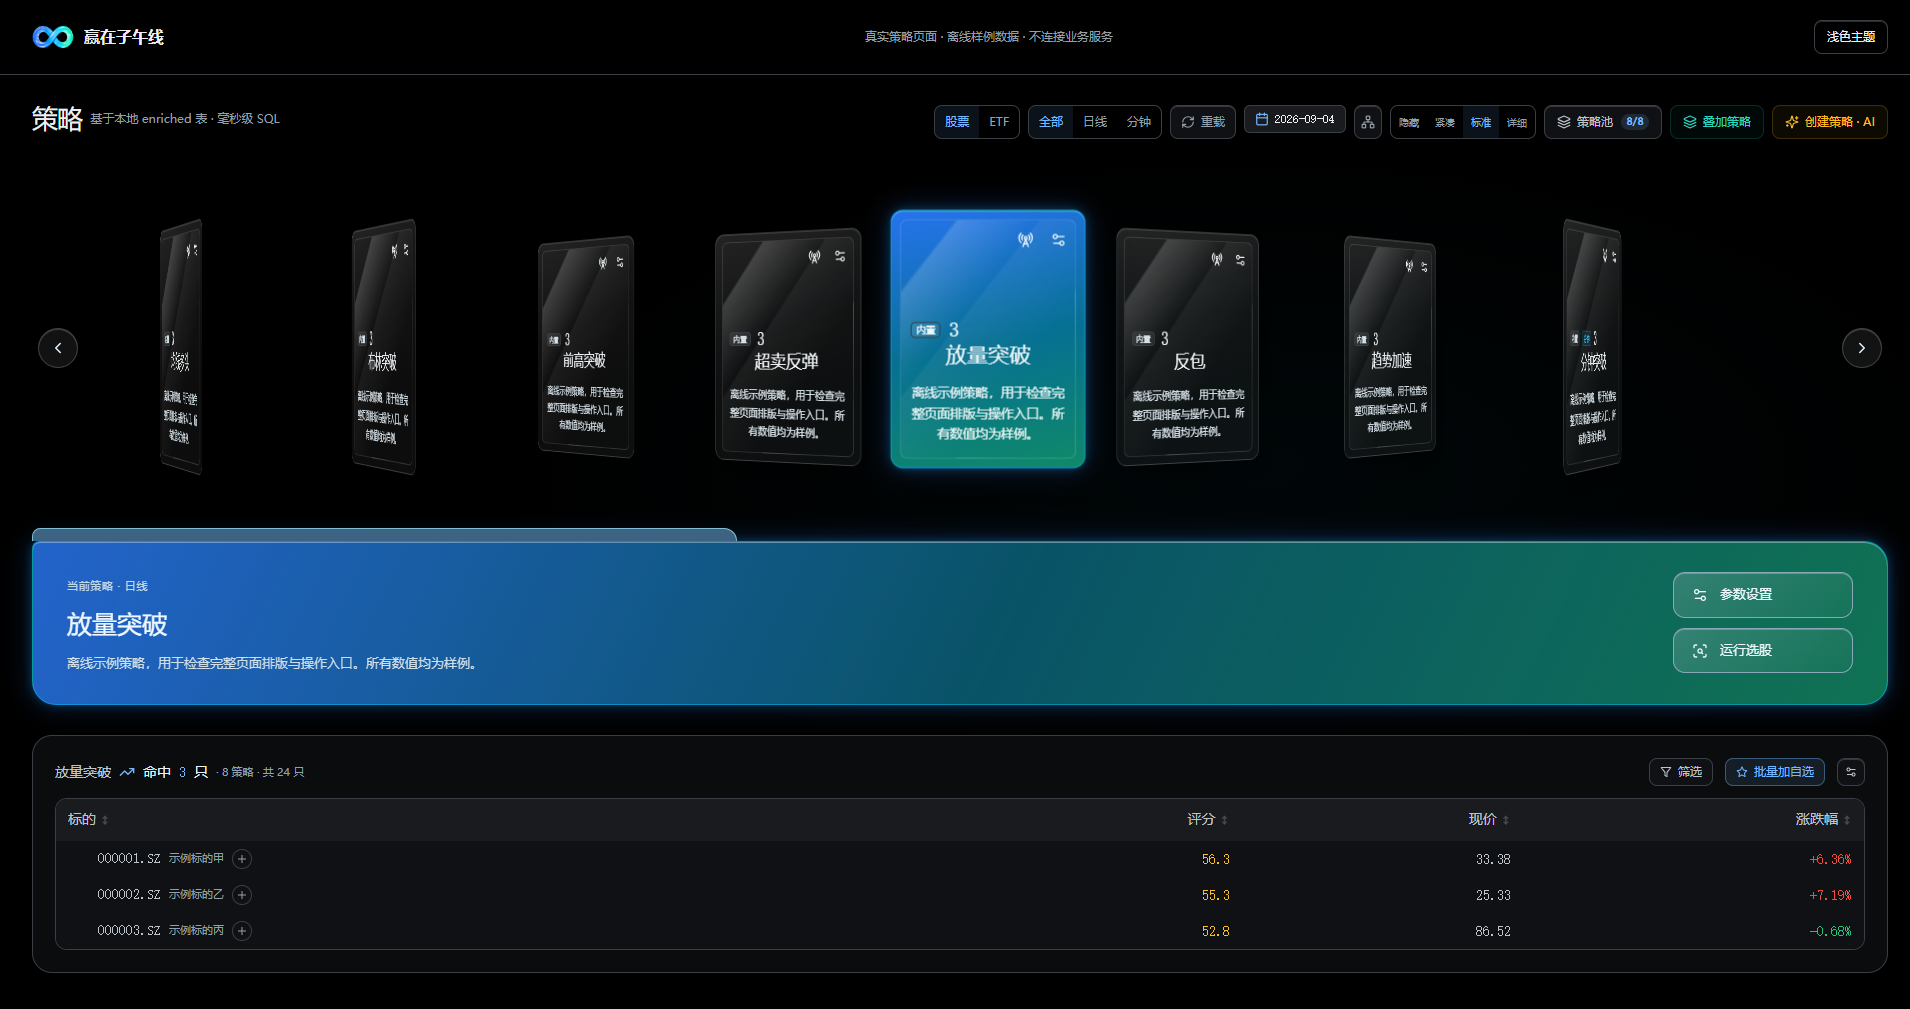
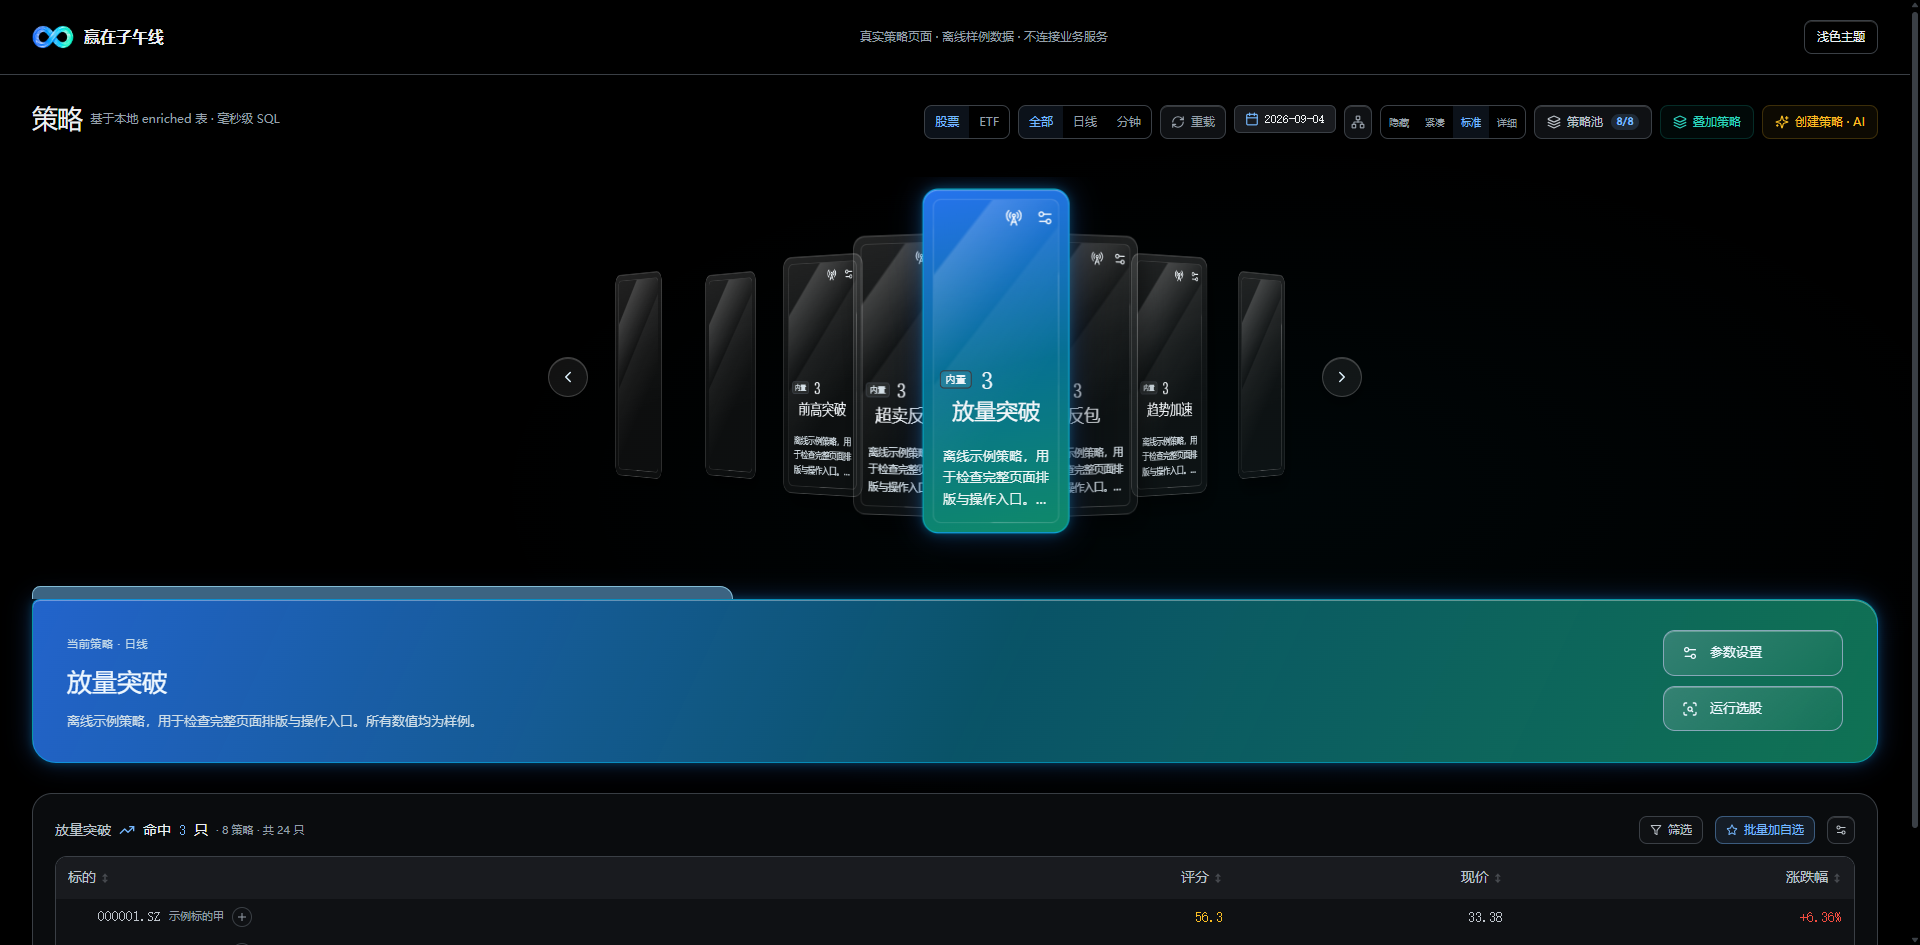
style: 扇形卡组按目标图校准（细长竖卡/负边距重叠/箭头贴组/远端隐字/集群居中）

diff --git a/frontend/src/styles/strategy-studio.css b/frontend/src/styles/strategy-studio.css
@@ -18,23 +18,34 @@
 .sn-screener-tools > button, .sn-screener-tools > div { min-height: 34px; }
 .sn-screener-body { padding-bottom: 36px; }
 .sn-strategy-stage { position: relative; }
+/* 卡组集群容器：宽度收缩到卡片实际宽度并居中，箭头紧贴两侧；仅扇形密度生效，紧凑模式保持原布局 */
+.sn-fan-cluster:not([data-density='mini']) {
+  position: relative;
+  width: -moz-fit-content;
+  width: fit-content;
+  max-width: 100%;
+  margin: 0 auto;
+}
 .sn-strategy-gallery:not([data-density='mini']) {
   display: flex;
   flex-wrap: nowrap;
-  gap: 18px;
+  justify-content: safe center;   /* 溢出时可滚到最左，不裁切 */
+  gap: 0;
   overflow-x: auto;
-  padding: 48px 56px 50px;
+  padding: 48px 72px 52px;
   scroll-snap-type: x proximity;
   scrollbar-gutter: stable;
   align-items: center;
-  perspective: 1200px;
+  perspective: 1400px;
 }
 .sn-strategy-gallery:not([data-density='mini']) .sn-strategy-card {
-  flex: 0 0 184px;
+  /* 细长竖卡（宽高比 ≈ 1:2.34，对齐目标图）+ 负 margin 重叠扇面 */
+  flex: 0 0 128px;
   min-width: 0;
-  height: 244px;
-  padding: 46px 18px 22px;
-  border-radius: 12px;
+  height: 300px;
+  margin: 0 -28px;
+  padding: 42px 14px 20px;
+  border-radius: 14px;
   display: flex;
   align-items: stretch;
   scroll-snap-align: center;
@@ -56,19 +67,28 @@
   border: 1px solid rgb(255 255 255 / .12);
   pointer-events: none;
 }
-/* Coverflow tiers: tier 由 Screener 按与选中策略的距离计算，data-fan 仅为视觉属性 */
-.sn-strategy-gallery:not([data-density='mini']) .sn-strategy-card[data-fan='near-left'] { rotate: y -26deg; scale: .95; opacity: .92; z-index: 10; }
-.sn-strategy-gallery:not([data-density='mini']) .sn-strategy-card[data-fan='near-right'] { rotate: y 26deg; scale: .95; opacity: .92; z-index: 10; }
-.sn-strategy-gallery:not([data-density='mini']) .sn-strategy-card[data-fan='mid-left'] { rotate: y -38deg; scale: .88; opacity: .78; z-index: 5; }
-.sn-strategy-gallery:not([data-density='mini']) .sn-strategy-card[data-fan='mid-right'] { rotate: y 38deg; scale: .88; opacity: .78; z-index: 5; }
-.sn-strategy-gallery:not([data-density='mini']) .sn-strategy-card[data-fan='far-left'] { rotate: y -46deg; }
-.sn-strategy-gallery:not([data-density='mini']) .sn-strategy-card[data-fan='far-right'] { rotate: y 46deg; }
+/* Coverflow tiers: tier 由 Screener 按与选中策略的距离计算，data-fan 仅为视觉属性。
+   梯度对齐目标图：near ±20° / mid ±34° / far ±46°，远端 scale 递减到 .68，递减节奏均匀 */
+.sn-strategy-gallery:not([data-density='mini']) .sn-strategy-card[data-fan='near-left'] { rotate: y -20deg; scale: .94; opacity: .94; z-index: 10; margin-right: -20px; }
+.sn-strategy-gallery:not([data-density='mini']) .sn-strategy-card[data-fan='near-right'] { rotate: y 20deg; scale: .94; opacity: .94; z-index: 10; margin-left: -20px; }
+.sn-strategy-gallery:not([data-density='mini']) .sn-strategy-card[data-fan='mid-left'] { rotate: y -34deg; scale: .80; opacity: .78; z-index: 5; margin-right: -14px; }
+.sn-strategy-gallery:not([data-density='mini']) .sn-strategy-card[data-fan='mid-right'] { rotate: y 34deg; scale: .80; opacity: .78; z-index: 5; margin-left: -14px; }
+.sn-strategy-gallery:not([data-density='mini']) .sn-strategy-card[data-fan='far-left'] { rotate: y -46deg; scale: .68; opacity: .60; margin-right: -8px; }
+.sn-strategy-gallery:not([data-density='mini']) .sn-strategy-card[data-fan='far-right'] { rotate: y 46deg; scale: .68; opacity: .60; margin-left: -8px; }
+/* 远端卡去文字保干净：只留卡面质感，消除重叠区文字透叠 */
+.sn-strategy-gallery:not([data-density='mini']) .sn-strategy-card[data-fan^='far-'] { color: transparent; }
+.sn-strategy-gallery:not([data-density='mini']) .sn-strategy-card[data-fan^='far-'] * { visibility: hidden; }
+.sn-strategy-gallery:not([data-density='mini']) .sn-strategy-card[data-fan^='far-']:hover,
+.sn-strategy-gallery:not([data-density='mini']) .sn-strategy-card[data-fan^='far-']:focus-within { color: inherit; }
+.sn-strategy-gallery:not([data-density='mini']) .sn-strategy-card[data-fan^='far-']:hover *,
+.sn-strategy-gallery:not([data-density='mini']) .sn-strategy-card[data-fan^='far-']:focus-within * { visibility: visible; }
 .sn-strategy-gallery:not([data-density='mini']) .sn-strategy-card[data-fan='center'] {
   rotate: y 0deg;
-  scale: 1.06;
-  translate: 0 -12px;
+  scale: 1.15;
+  translate: 0 -14px;
   opacity: 1;
   z-index: 20;
+  margin: 0 -20px;
   background-color: #0d1b2e;
   background-image: linear-gradient(168deg, rgb(40 123 255 / .92), rgb(0 191 239 / .52) 52%, rgb(16 185 129 / .70));
   border-color: rgb(0 191 239 / .60);
@@ -77,6 +97,8 @@
 .sn-strategy-gallery:not([data-density='mini']) .sn-strategy-card[data-fan='center'] .text-muted { color: rgb(255 255 255 / .92); }
 .sn-strategy-gallery:not([data-density='mini']) .sn-strategy-card:hover,
 .sn-strategy-gallery:not([data-density='mini']) .sn-strategy-card:focus-within { rotate: y 0deg; translate: 0 -8px; border-color: rgb(0 191 239 / .45); }
+/* 文字跟随卡片透视：3D 变换应用于卡体，内部继承同一变换上下文 */
+.sn-strategy-gallery:not([data-density='mini']) .sn-strategy-card > button:first-child { transform-style: preserve-3d; }
 .sn-strategy-gallery:not([data-density='mini']) .sn-strategy-card > button:first-child {
   position: relative;
   display: flex;
@@ -89,16 +111,16 @@
   color: #f2f6f9;
 }
 .sn-strategy-gallery:not([data-density='mini']) .sn-strategy-card > button:first-child > div:first-child { flex-wrap: wrap; gap: 8px; }
-.sn-strategy-gallery:not([data-density='mini']) .sn-strategy-card .text-foreground { color: #f2f6f9; font-size: 17px; white-space: normal; }
+.sn-strategy-gallery:not([data-density='mini']) .sn-strategy-card .text-foreground { color: #f2f6f9; font-size: 16px; white-space: normal; }
 .sn-strategy-gallery:not([data-density='mini']) .sn-strategy-card .text-muted { color: #d5e0e7; }
-.sn-strategy-gallery:not([data-density='mini']) .sn-strategy-card .font-mono { font-size: 20px; font-weight: 500; }
-.sn-strategy-gallery:not([data-density='mini']) .sn-strategy-card .line-clamp-1 { -webkit-line-clamp: 3; max-width: none; font-size: 12px; line-height: 1.6; }
-.sn-strategy-gallery:not([data-density='mini']) .sn-strategy-card .truncate { overflow: visible; flex: 1 0 100%; order: 2; font-weight: 500; font-size: 20px; }
-.sn-strategy-gallery:not([data-density='mini']) .sn-strategy-card > button:not(:first-child) { top: 15px; padding: 5px; }
-.sn-strategy-gallery:not([data-density='mini']) .sn-strategy-card > button[title='策略设置'] { right: 12px; }
-.sn-strategy-gallery:not([data-density='mini']) .sn-strategy-card > button[title$='策略监控'] { right: 43px; }
+.sn-strategy-gallery:not([data-density='mini']) .sn-strategy-card .font-mono { font-size: 22px; font-weight: 500; }
+.sn-strategy-gallery:not([data-density='mini']) .sn-strategy-card .line-clamp-1 { -webkit-line-clamp: 3; max-width: none; font-size: 11.5px; line-height: 1.6; }
+.sn-strategy-gallery:not([data-density='mini']) .sn-strategy-card .truncate { overflow: visible; flex: 1 0 100%; order: 2; font-weight: 500; font-size: 19px; line-height: 1.25; }
+.sn-strategy-gallery:not([data-density='mini']) .sn-strategy-card > button:not(:first-child) { top: 13px; padding: 4px; }
+.sn-strategy-gallery:not([data-density='mini']) .sn-strategy-card > button[title='策略设置'] { right: 9px; }
+.sn-strategy-gallery:not([data-density='mini']) .sn-strategy-card > button[title$='策略监控'] { right: 36px; }
 .sn-strategy-gallery:not([data-density='mini']) .sn-strategy-card > button:not(:first-child) svg { width: 15px; height: 15px; color: #f1f7fb; }
-.sn-strategy-gallery[data-density='large'] .sn-strategy-card { flex-basis: 224px; height: 284px; }
+.sn-strategy-gallery[data-density='large'] .sn-strategy-card { flex-basis: 148px; height: 340px; }
 .sn-strategy-gallery[data-density='mini'] { padding: 16px 0 24px; }
 .sn-strategy-focus {
   position: relative;
@@ -134,7 +156,7 @@
 .sn-strategy-focus-actions button { display: flex; align-items: center; gap: 12px; padding: 12px 18px; border: 1px solid #88a7b8; border-radius: 12px; background: linear-gradient(140deg, rgb(255 255 255 / .16), rgb(255 255 255 / .025)); font-size: 13px; box-shadow: inset 0 1px 0 rgb(255 255 255 / .26); }
 .sn-strategy-focus-actions button:hover { background-color: rgb(255 255 255 / .12); }
 .sn-strategy-focus-actions button:disabled { opacity: .5; cursor: wait; }
-/* Coverflow 箭头：仅 normal/large 密度渲染，窄屏隐藏 */
+/* Coverflow 箭头：仅 normal/large 密度渲染，窄屏隐藏；相对卡组集群定位，紧贴两侧并垂直居中 */
 .sn-fan-arrow {
   position: absolute;
   top: 50%;
@@ -155,8 +177,8 @@
 }
 .sn-fan-arrow:hover:not(:disabled) { background: rgb(255 255 255 / .14); border-color: rgb(0 191 239 / .5); }
 .sn-fan-arrow:disabled { opacity: .35; cursor: default; }
-.sn-fan-arrow--prev { left: 6px; }
-.sn-fan-arrow--next { right: 6px; }
+.sn-fan-arrow--prev { left: 18px; }
+.sn-fan-arrow--next { right: 18px; }
 html:not(.dark) .sn-fan-arrow { color: #24435c; border-color: rgb(0 0 0 / .10); background: rgb(255 255 255 / .72); }
 .sn-screener-results { padding: 22px; border: 1px solid hsl(var(--border)); border-radius: 20px; background: hsl(var(--surface) / .68); }
 .sn-screener-results:empty { display: none; }

diff --git a/frontend/src/pages/Screener.tsx b/frontend/src/pages/Screener.tsx
@@ -827,6 +827,7 @@ export function Screener() {
                 : '当前周期筛选下无策略，切换周期筛选或编辑策略池'}
             </div>
           )}
+          <div className="sn-fan-cluster" data-density={cardSize}>
           <div
             ref={galleryRef}
             className={`sn-strategy-gallery ${cardWrapCls(cardSize)}`}
@@ -876,6 +877,7 @@ export function Screener() {
               </button>
             </>
           )}
+          </div>
         </section>
         )}
 
